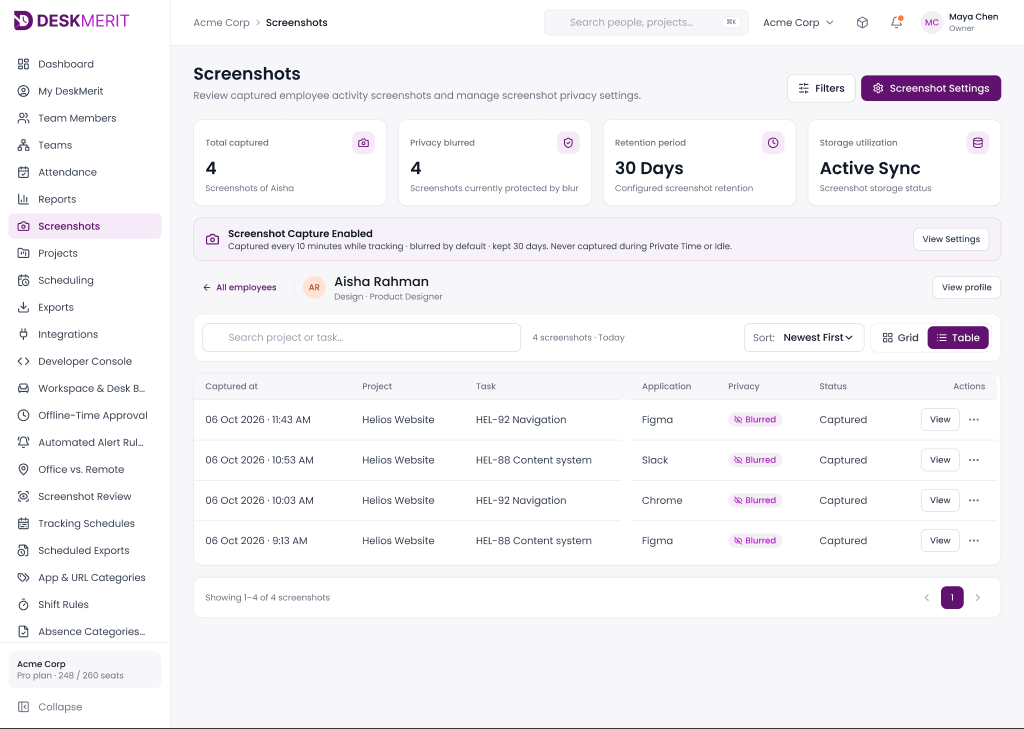
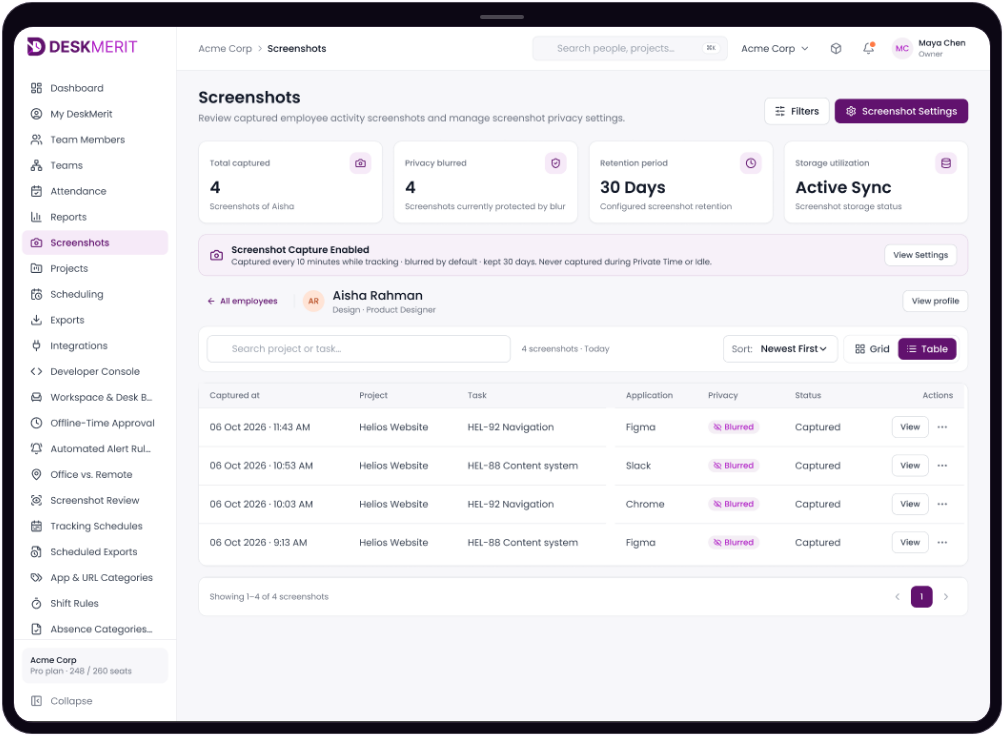
refactor: bake device mockups directly into images and remove hardcoded mockup code

diff --git a/src/components/ui/HeroDeviceMockup.tsx b/src/components/ui/HeroDeviceMockup.tsx
@@ -15,158 +15,27 @@ export function HeroDeviceMockup({
   className = "",
   type = "tablet",
 }: HeroDeviceMockupProps) {
-  // 1. Mobile Phone Mockup (Requested for cards like Jira, India edition, Integrations)
-  if (type === "mobile") {
-    return (
-      <div className={`relative max-w-[340px] sm:max-w-[370px] w-full mx-auto group ${className}`}>
-        {/* Luminous Light-Colored Ambient Glow for Dark Hero */}
-        <div className="absolute -inset-3.5 bg-gradient-to-tr from-[#9333EA]/35 via-[#D8B4FE]/30 to-[#61126E]/45 rounded-[50px] blur-2xl opacity-80 group-hover:opacity-100 transition-opacity duration-500 pointer-events-none" />
+  // Sizing container based on image type
+  const maxWidth =
+    type === "mobile" || type === "tray"
+      ? "max-w-[390px]"
+      : type === "card" || type === "compact"
+      ? "max-w-[480px]"
+      : "max-w-full sm:max-w-[620px]";
 
-        {/* Sleek Mobile Phone Chassis with Light-Colored Shadow */}
-        <div className="relative rounded-[44px] sm:rounded-[48px] p-2.5 sm:p-3 bg-[#0C0714] border-2 border-white/25 ring-1 ring-purple-300/35 shadow-[0_0_55px_rgba(216,180,254,0.30),0_25px_65px_-12px_rgba(168,85,247,0.45)] transition-all duration-300 group-hover:shadow-[0_0_70px_rgba(216,180,254,0.40),0_30px_75px_-12px_rgba(168,85,247,0.55)]">
-          {/* Top Dynamic Island / Speaker Pill */}
-          <div className="flex justify-center items-center pb-2 pt-1">
-            <div className="w-20 sm:w-24 h-3.5 sm:h-4 bg-black rounded-full flex items-center justify-between px-2.5 shadow-inner">
-              <div className="w-1.5 h-1.5 rounded-full bg-slate-800" />
-              <div className="w-1.5 h-1.5 rounded-full bg-slate-700" />
-            </div>
-          </div>
-
-          {/* Inner Phone Screen - Hugs Card with Clean Radius and No Wasted Vertical Space */}
-          <div className="relative rounded-[28px] sm:rounded-[32px] overflow-hidden bg-white shadow-inner border border-black/5">
-            <img
-              src={src}
-              alt={alt}
-              className="w-full h-auto block select-none"
-              style={{ imageRendering: "auto" }}
-              loading={priority ? "eager" : "lazy"}
-            />
-          </div>
-
-          {/* Bottom Home Indicator Bar */}
-          <div className="flex justify-center pt-2 pb-0.5">
-            <div className="w-24 sm:w-28 h-1 rounded-full bg-white/35" />
-          </div>
-        </div>
-      </div>
-    );
-  }
-
-  // 2. Screen with Less Height / Compact Screen Mockup (Tight uniform bezel, zero empty vertical gaps)
-  if (type === "card" || type === "compact") {
-    return (
-      <div className={`relative max-w-[420px] sm:max-w-[460px] w-full mx-auto group ${className}`}>
-        {/* Luminous Light-Colored Ambient Glow for Dark Hero */}
-        <div className="absolute -inset-3 bg-gradient-to-tr from-[#9333EA]/35 via-[#D8B4FE]/30 to-[#61126E]/40 rounded-[38px] blur-2xl opacity-80 group-hover:opacity-100 transition-opacity duration-500 pointer-events-none" />
-
-        {/* Compact Screen Mockup with Less Height */}
-        <div className="relative rounded-[26px] sm:rounded-[30px] p-2 sm:p-2.5 bg-[#0C0714] border border-white/25 ring-1 ring-purple-300/35 shadow-[0_0_55px_rgba(216,180,254,0.28),0_25px_65px_-12px_rgba(168,85,247,0.40)] transition-all duration-300 group-hover:shadow-[0_0_70px_rgba(216,180,254,0.38),0_30px_75px_-12px_rgba(168,85,247,0.50)]">
-          {/* Top Camera / Sensor Pill */}
-          <div className="flex items-center justify-center pb-1 pt-0.5">
-            <div className="w-8 sm:w-10 h-1 rounded-full bg-white/25" />
-          </div>
-
-          {/* Inner Screen - Hugs Card snug without any vertical gaps */}
-          <div className="relative rounded-[18px] sm:rounded-[22px] overflow-hidden bg-white shadow-inner">
-            <img
-              src={src}
-              alt={alt}
-              className="w-full h-auto block select-none"
-              style={{ imageRendering: "auto" }}
-              loading={priority ? "eager" : "lazy"}
-            />
-          </div>
-        </div>
-      </div>
-    );
-  }
-
-  // 3. Desktop System Tray Agent Mockup (Compact window, dark frame, light glow)
-  if (type === "tray") {
-    return (
-      <div className={`relative max-w-[380px] w-full mx-auto group ${className}`}>
-        {/* Luminous Light-Colored Ambient Glow for Dark Hero */}
-        <div className="absolute -inset-3 bg-gradient-to-tr from-[#9333EA]/35 via-[#D8B4FE]/30 to-[#61126E]/45 rounded-[36px] blur-2xl opacity-80 group-hover:opacity-100 transition-opacity duration-500 pointer-events-none" />
-
-        {/* Sleek Tray Window Mockup with Light Rim & Light-Colored Shadow */}
-        <div className="relative rounded-[24px] sm:rounded-[28px] p-2 sm:p-2.5 bg-[#0C0714] border border-white/20 ring-1 ring-purple-300/35 shadow-[0_0_45px_rgba(216,180,254,0.25),0_25px_60px_-12px_rgba(168,85,247,0.40)] transition-all duration-300">
-          <div className="relative rounded-[16px] sm:rounded-[20px] overflow-hidden bg-[#12081B] border border-white/10">
-            <img
-              src={src}
-              alt={alt}
-              className="w-full h-auto block object-contain select-none"
-              style={{ imageRendering: "auto" }}
-              loading={priority ? "eager" : "lazy"}
-            />
-          </div>
-        </div>
-      </div>
-    );
-  }
-
-  // 4. Laptop Device Mockup (Matches User's Laptop Reference Image)
-  if (type === "laptop") {
-    return (
-      <div className={`relative w-full max-w-full mx-auto group ${className}`}>
-        {/* Luminous Light-Colored Ambient Glow for Dark Hero */}
-        <div className="absolute -inset-4 bg-gradient-to-tr from-[#9333EA]/30 via-[#D8B4FE]/25 to-[#61126E]/40 rounded-[38px] blur-2xl opacity-75 group-hover:opacity-100 transition-opacity duration-500 pointer-events-none" />
-
-        {/* Laptop Display Top Lid */}
-        <div className="relative rounded-t-[20px] sm:rounded-t-[24px] p-2 sm:p-2.5 bg-[#0C0714] border border-white/20 border-b-0 ring-1 ring-purple-300/30 shadow-[0_0_55px_rgba(216,180,254,0.25),0_20px_50px_-10px_rgba(168,85,247,0.35)]">
-          {/* Top Camera Dot */}
-          <div className="flex items-center justify-center pb-1.5 pt-0.5">
-            <div className="w-1.5 h-1.5 rounded-full bg-slate-500 ring-1 ring-slate-400" />
-          </div>
-
-          {/* Inner Screen - 100% Quality & Full Readability */}
-          <div className="relative rounded-t-[14px] sm:rounded-t-[18px] overflow-hidden bg-[#12081B] border border-white/10 shadow-inner">
-            <img
-              src={src}
-              alt={alt}
-              className="w-full h-auto block object-contain object-top select-none"
-              style={{ imageRendering: "auto" }}
-              loading={priority ? "eager" : "lazy"}
-            />
-          </div>
-        </div>
-
-        {/* Laptop Bottom Aluminum Base & Opening Notch */}
-        <div className="relative">
-          <div className="relative h-2.5 sm:h-3 rounded-b-xl bg-gradient-to-b from-[#2A2D35] via-[#1E2026] to-[#121317] border-t border-slate-700 border-x border-b border-white/20 shadow-[0_12px_24px_rgba(0,0,0,0.4)] flex items-start justify-center">
-            {/* Center Opening Notch */}
-            <div className="w-14 sm:w-16 h-1 bg-[#0C0714] rounded-b-sm border-b border-white/15" />
-          </div>
-          {/* Bottom Foot Lip */}
-          <div className="mx-auto w-[92%] h-1 bg-gradient-to-r from-transparent via-[#61126E]/40 to-transparent blur-xs" />
-        </div>
-      </div>
-    );
-  }
-
-  // 5. Default: Tablet / Screen Bezel Mockup (Matches User's Tablet Reference Image)
   return (
-    <div className={`relative w-full max-w-full mx-auto group ${className}`}>
-      {/* Luminous Light-Colored Ambient Glow for Dark Hero */}
-      <div className="absolute -inset-3 bg-gradient-to-tr from-[#9333EA]/30 via-[#D8B4FE]/25 to-[#61126E]/40 rounded-[38px] blur-2xl opacity-75 group-hover:opacity-100 transition-opacity duration-500 pointer-events-none" />
+    <div className={`relative w-full ${maxWidth} mx-auto group ${className}`}>
+      {/* Luminous Light-Colored Ambient Glow / Shadow Behind the Mockup Image */}
+      <div className="absolute -inset-3 bg-gradient-to-tr from-[#9333EA]/35 via-[#D8B4FE]/30 to-[#61126E]/40 rounded-3xl blur-2xl opacity-75 group-hover:opacity-100 transition-opacity duration-500 pointer-events-none" />
 
-      {/* Sleek Device Bezel Frame matching Reference Image with Light-Colored Shadow */}
-      <div className="relative rounded-[26px] sm:rounded-[32px] p-2 sm:p-2.5 bg-[#0C0714] border border-white/20 ring-1 ring-purple-300/30 shadow-[0_0_55px_rgba(216,180,254,0.25),0_25px_65px_-12px_rgba(168,85,247,0.38)] transition-all duration-300 group-hover:shadow-[0_0_70px_rgba(216,180,254,0.35),0_30px_75px_-12px_rgba(168,85,247,0.48)]">
-        {/* Top Camera / Sensor Pill */}
-        <div className="flex items-center justify-center pb-1.5 pt-0.5">
-          <div className="w-10 sm:w-12 h-1 rounded-full bg-white/25" />
-        </div>
-
-        {/* Inner Screen - Retains Full Native Quality & Text Sharpness */}
-        <div className="relative rounded-[18px] sm:rounded-[22px] overflow-hidden bg-[#12081B] border border-white/10 shadow-inner">
-          <img
-            src={src}
-            alt={alt}
-            className="w-full h-auto block object-contain object-top select-none"
-            style={{ imageRendering: "auto" }}
-            loading={priority ? "eager" : "lazy"}
-          />
-        </div>
-      </div>
+      {/* 100% Native Image - Zero hardcoded mockup UI or device frames in code */}
+      <img
+        src={src}
+        alt={alt}
+        className="relative z-10 w-full h-auto block object-contain select-none transition-transform duration-300 group-hover:scale-[1.01]"
+        style={{ imageRendering: "auto" }}
+        loading={priority ? "eager" : "lazy"}
+      />
     </div>
   );
 }
